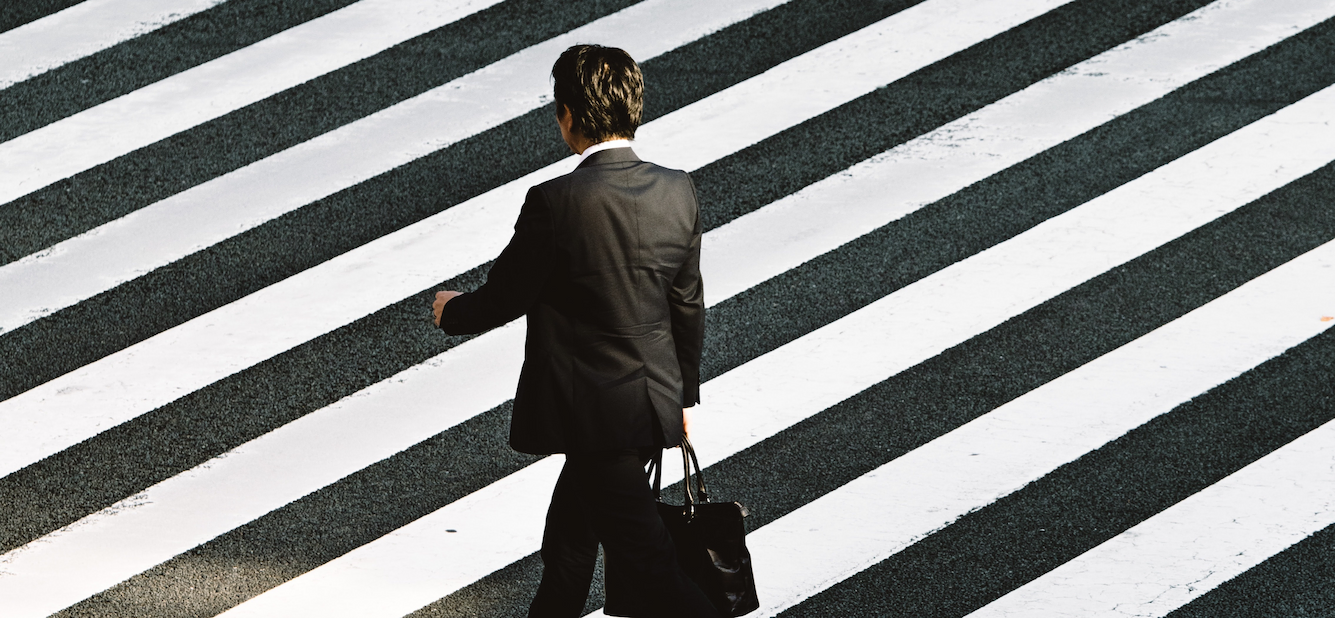
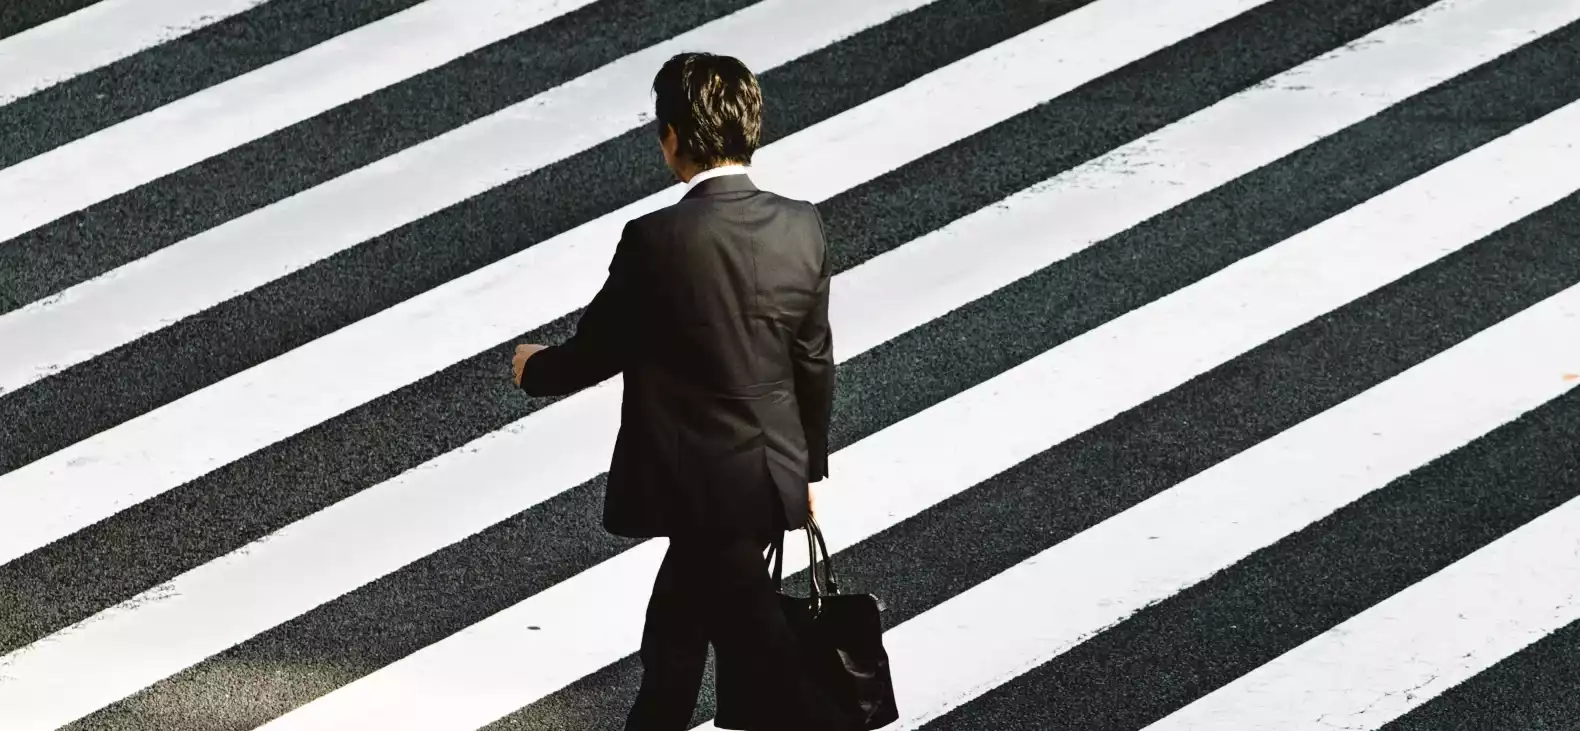
correction

diff --git a/index.html b/index.html
@@ -159,7 +159,7 @@
         <div class="carousel-inner">
           <div class="carousel-item active">
             <img
-              src="assets\images\slider\ryoji-iwata (1).webp"
+              src="assets\images\slider\ryoji-iwata.webp"
               class="d-block w-100"
               alt="Homme d'affaires marchant sur un passage piéton"
               style="width: 100%; height: auto"
